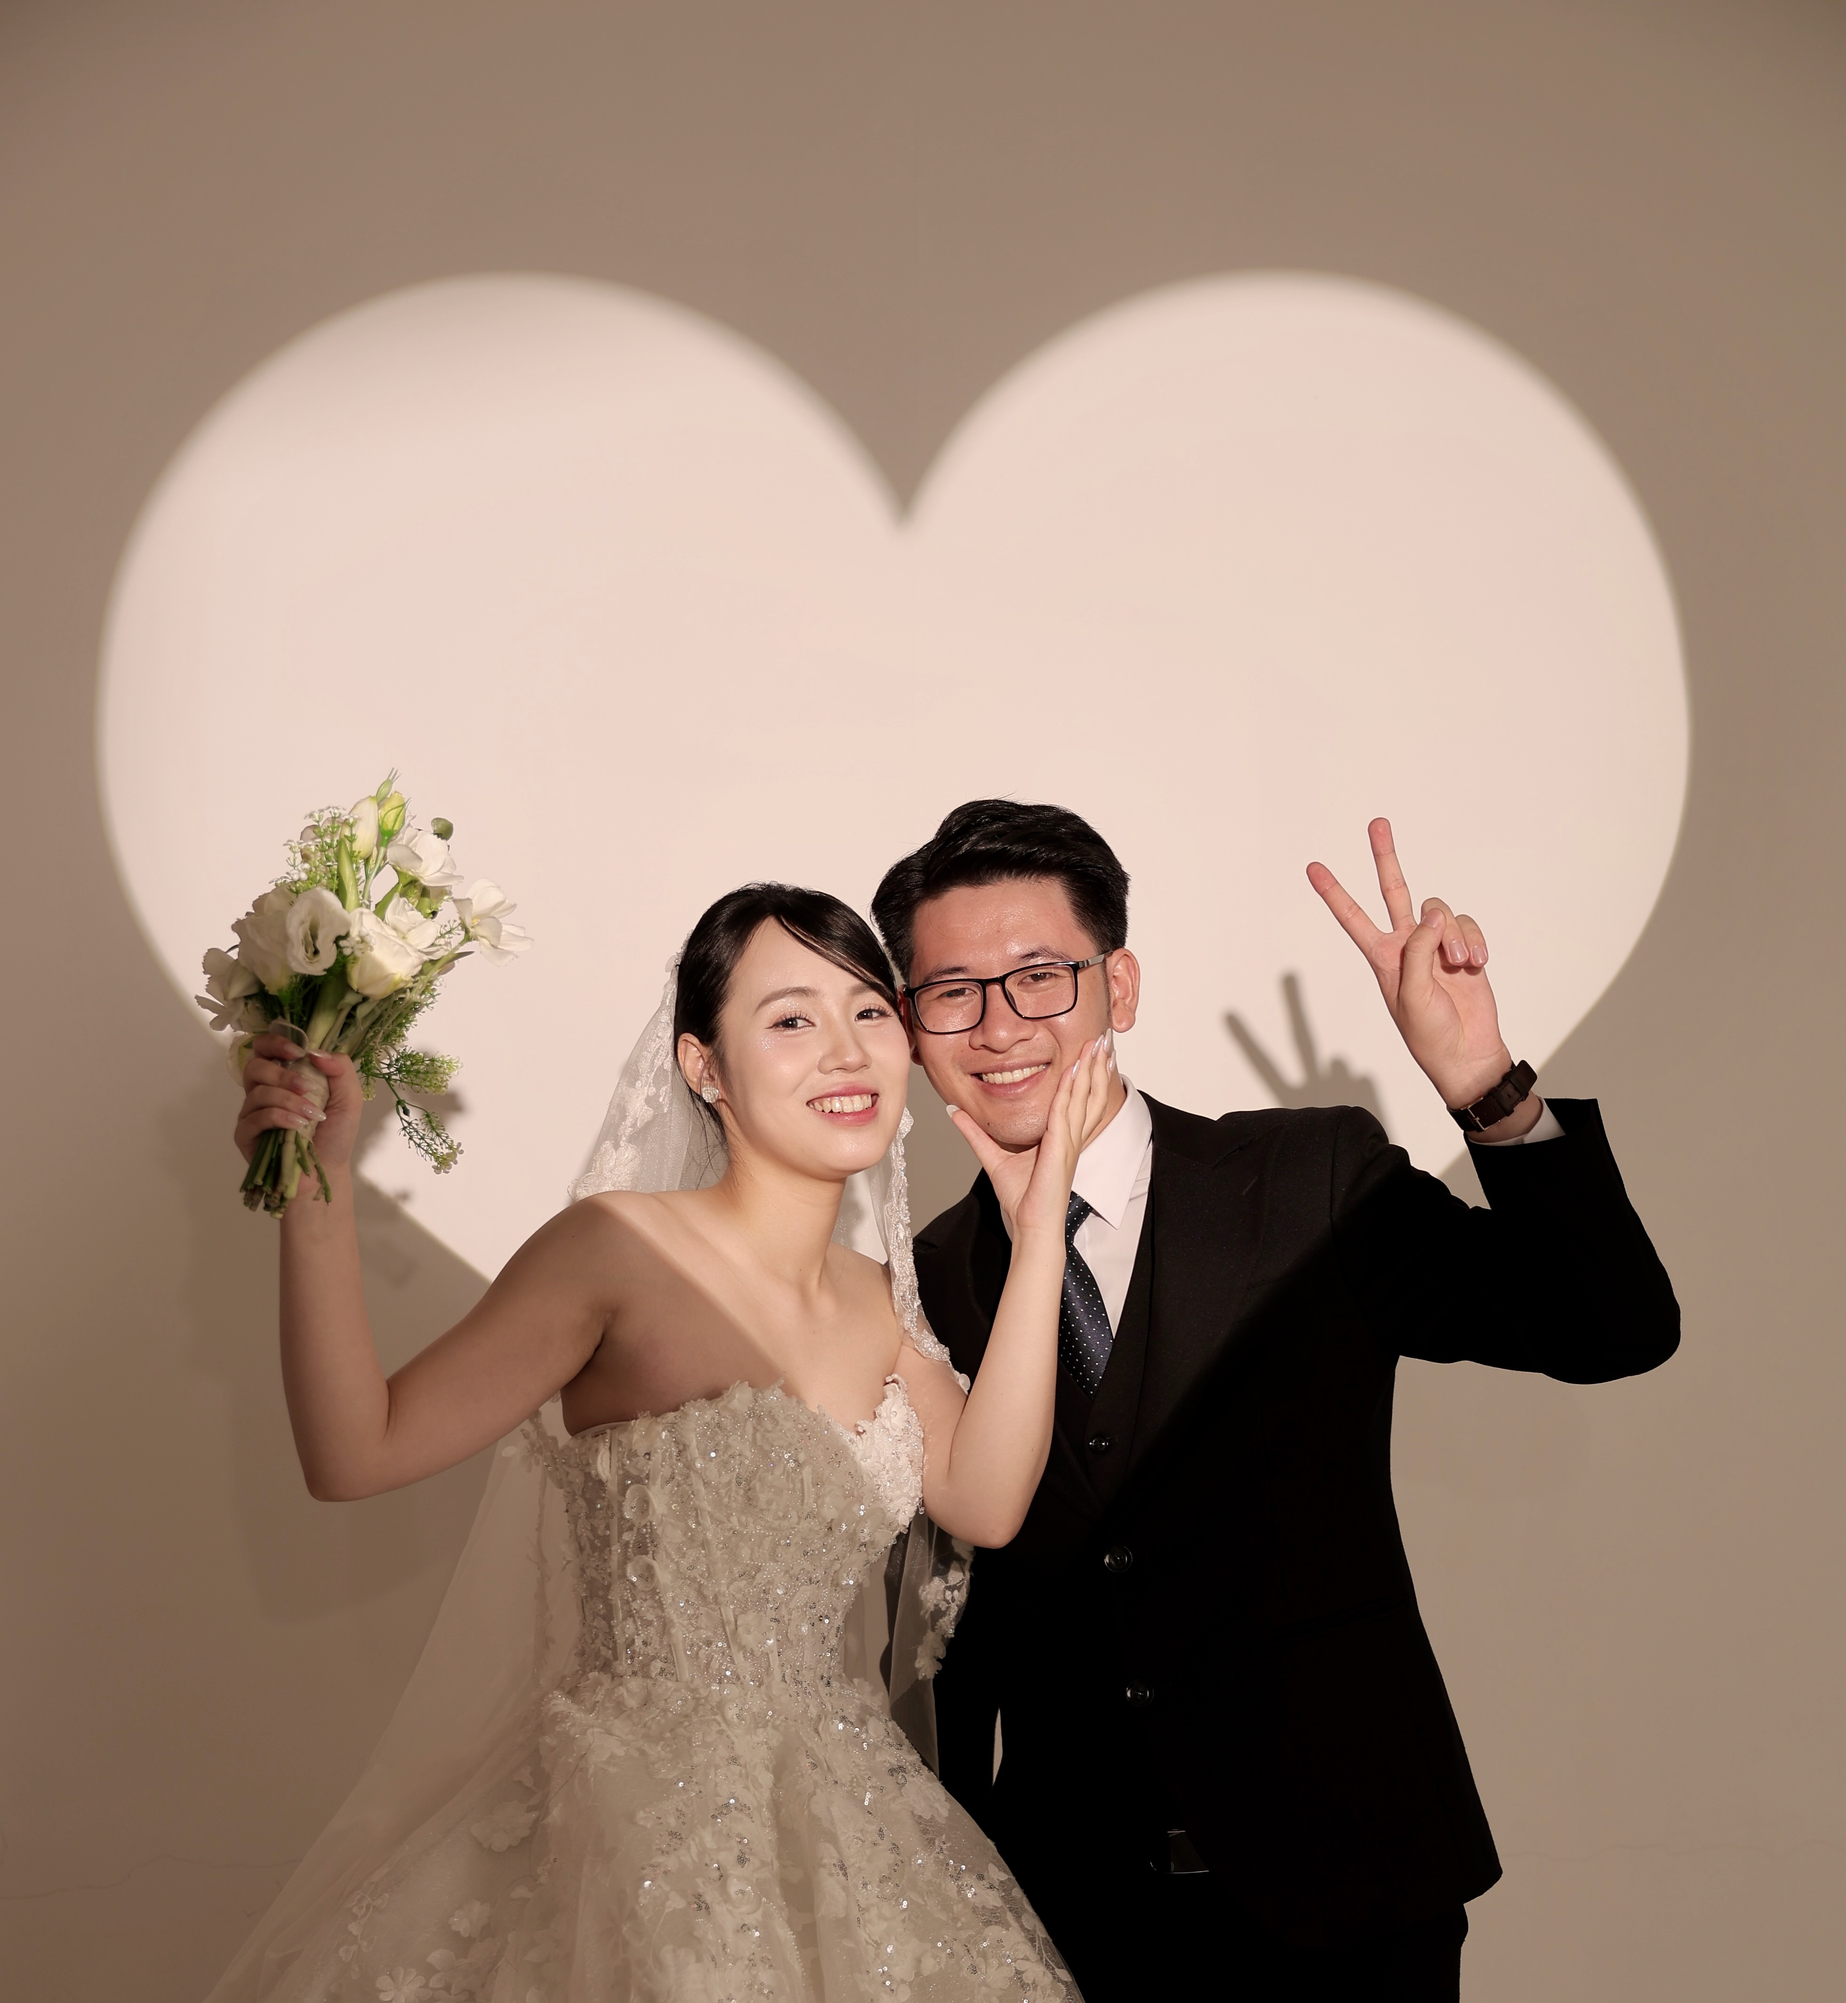
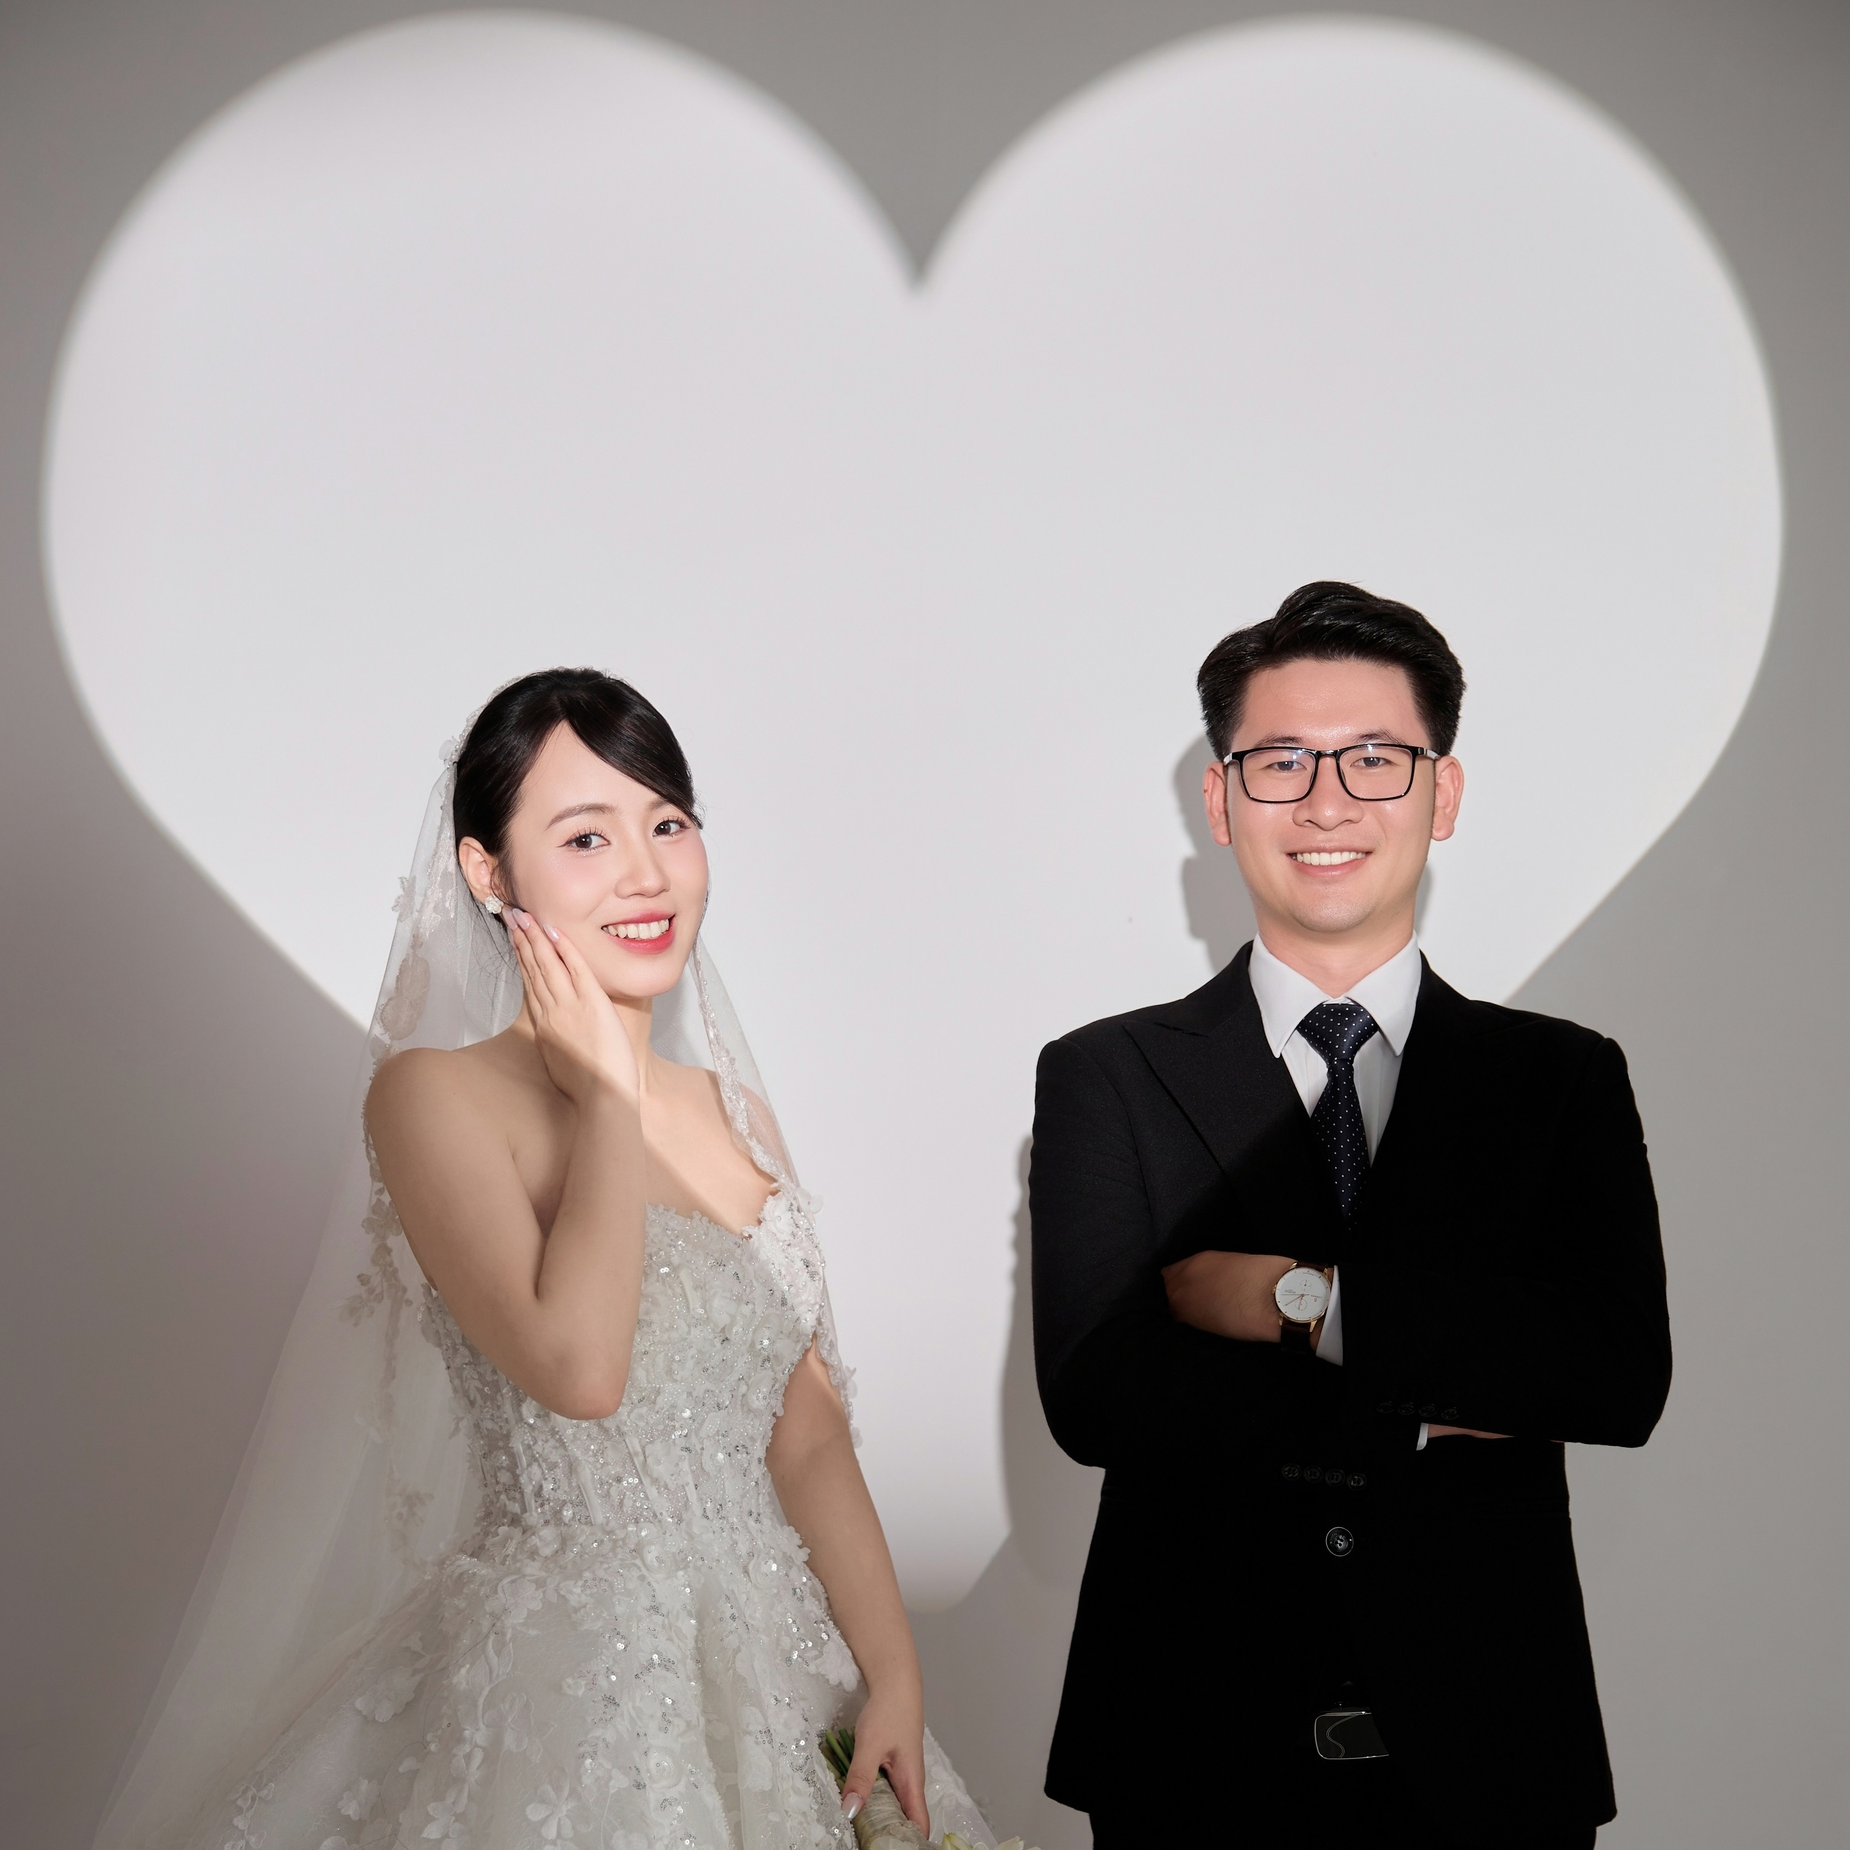
modify  by Haianh

diff --git a/index.html b/index.html
@@ -115,7 +115,7 @@
 
                 <div class="save-the-date">
                     <h4>Save the date</h4>
-                    <span class="date">13.08.2025</span>
+                    <span class="date">17.08.2025</span>
                 </div>
             </div>
         </section>
@@ -133,7 +133,7 @@
                             <span class="icon-bar"></span>
                         </button>
                         <div class="couple-logo">
-                            <h1><a href="#home" style="font-weight: 700; text-shadow: 1px 1px 2px rgba(0,0,0,0.3);">D <i class="fi flaticon-shape-1"></i> A</a></h1>
+                            <h1><a href="#home" style="font-weight: 700; text-shadow: 1px 1px 2px rgba(0,0,0,0.3);">Đ <i class="fi flaticon-shape-1"></i> A</a></h1>
                         </div>
                     </div>
                     <div id="navbar" class="navbar-collapse collapse navbar-right navigation-holder">
@@ -217,7 +217,7 @@
                                 </div>
                             </div>
                             <div class="img-holder wow fadeInRightSlow">
-                                <img src="images/couple/7N4A7653.JPG" alt>
+                                <img src="images/couple/7N4A7891.JPG" alt>
                             </div>
                         </div>
                     </div>
@@ -324,7 +324,7 @@
                                         <h4 lang="vi"><b>Tiệc cưới - Trung Tâm tiệc cưới</b></h4>
                                         <ul>
                                             <li><i class="fa fa-map-marker"></i> Tầng 5, Trung tâm Tiệc cưới & Hội Nghị Mipec Palace - Tây Sơn</li>
-                                            <li><i class="fa fa-clock-o"></i> 17/08/2025, 10:00 - 14:00</li>
+                                            <li><i class="fa fa-clock-o"></i> 17/08/2025, 10:30 - 14:00</li>
                                         </ul>
                                         <a data-translate="see_location" class="see-location-btn" href="https://maps.app.goo.gl/nkc5xsfoTN5Aig3SA" target="_blank">
                                             See location <i class="fa fa-angle-right"></i>
@@ -376,38 +376,38 @@
                                 </a>
                             </div>
                             <div class="grid wedding">
-                                <a href="images/gallery/7N4A7318.JPG" class="fancybox" data-fancybox-group="gall-1">
-                                    <img src="images/gallery/7N4A7318.JPG" alt class="img img-responsive">
+                                <a href="images/gallery/7N4A7877.JPG" class="fancybox" data-fancybox-group="gall-1">
+                                    <img src="images/gallery/7N4A7877.JPG" alt class="img img-responsive">
                                 </a>
                             </div>
                             <div class="grid wedding">
-                                <a href="images/gallery/7N4A7433.JPG" class="fancybox" data-fancybox-group="gall-1">
-                                    <img src="images/gallery/7N4A7433.JPG" alt class="img img-responsive">
+                                <a href="images/gallery/7N4A8096.JPG" class="fancybox" data-fancybox-group="gall-1">
+                                    <img src="images/gallery/7N4A8096.JPG" alt class="img img-responsive">
                                 </a>
                             </div>
                             <div class="grid wedding">
-                                <a href="images/gallery/7N4A7486.JPG" class="fancybox" data-fancybox-group="gall-1">
-                                    <img src="images/gallery/7N4A7486.JPG" alt class="img img-responsive">
+                                <a href="images/gallery/7N4A8322.JPG" class="fancybox" data-fancybox-group="gall-1">
+                                    <img src="images/gallery/7N4A8322.JPG" alt class="img img-responsive">
                                 </a>
                             </div>
                             <div class="grid wedding">
-                                <a href="images/gallery/7N4A7555.JPG" class="fancybox" data-fancybox-group="gall-1">
-                                    <img src="images/gallery/7N4A7555.JPG" alt class="img img-responsive">
+                                <a href="images/gallery/7N4A8563.jpg" class="fancybox" data-fancybox-group="gall-1">
+                                    <img src="images/gallery/7N4A8563.jpg" alt class="img img-responsive">
                                 </a>
                             </div>
                             <div class="grid wedding">
-                                <a href="images/gallery/7N4A7700.JPG" class="fancybox" data-fancybox-group="gall-1">
-                                    <img src="images/gallery/7N4A7700.JPG" alt class="img img-responsive">
+                                <a href="images/gallery/7N4A8692.JPG" class="fancybox" data-fancybox-group="gall-1">
+                                    <img src="images/gallery/7N4A8692.JPG" alt class="img img-responsive">
                                 </a>
                             </div>
                             <div class="grid wedding">
-                                <a href="images/gallery/7N4A7775.JPG" class="fancybox" data-fancybox-group="gall-1">
-                                    <img src="images/gallery/7N4A7775.JPG" alt class="img img-responsive">
+                                <a href="images/gallery/7N4A7381.JPG" class="fancybox" data-fancybox-group="gall-1">
+                                    <img src="images/gallery/7N4A7381.JPG" alt class="img img-responsive">
                                 </a>
                             </div>
                             <div class="grid wedding">
-                                <a href="images/gallery/7N4A7801.JPG" class="fancybox" data-fancybox-group="gall-1">
-                                    <img src="images/gallery/7N4A7801.JPG" alt class="img img-responsive">
+                                <a href="images/gallery/7N4A7537.JPG" class="fancybox" data-fancybox-group="gall-1">
+                                    <img src="images/gallery/7N4A7537.JPG" alt class="img img-responsive">
                                 </a>
                             </div>
                             <div class="grid wedding">

diff --git a/language/change-language.js b/language/change-language.js
@@ -71,7 +71,7 @@ function changeMessageLanguage(lang_dict) {
 // Define the language reload anchors and set default language
 // var language_dict = language_vi;
 // document.body.className='vi'
-changeLanguage('en', before_rsvp_init=true)
+changeLanguage('vi', before_rsvp_init=true)
 
 // Check if a hash value exists in the URL
 if (window.location.hash) {
